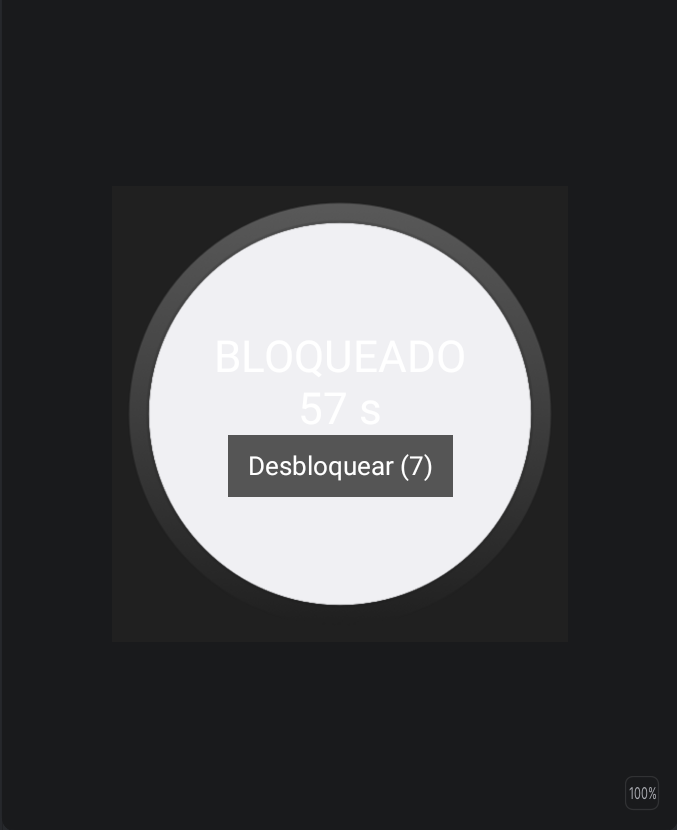
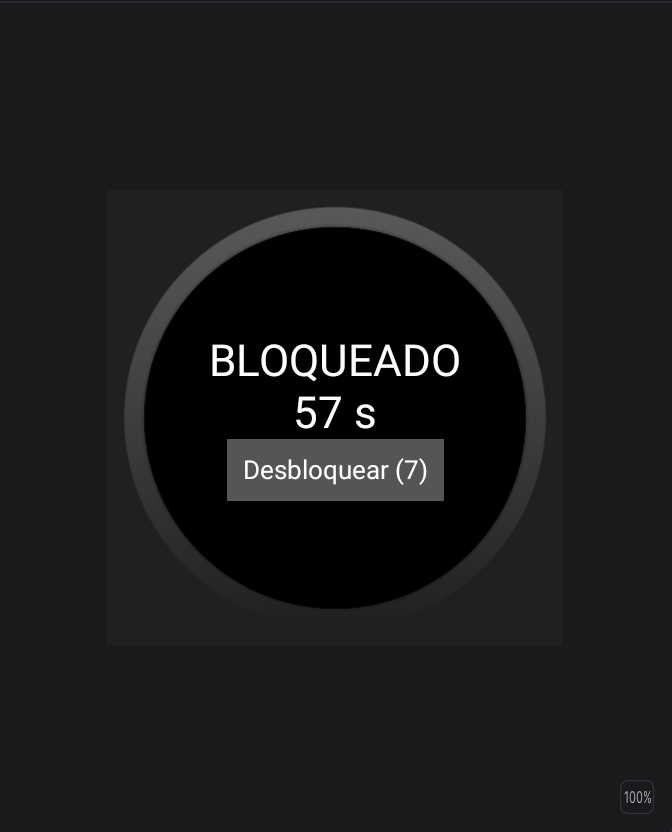
Mejora contraste del reloj y recaptura imágenes

Changed region(s): [[0.1875, 0.241, 0.8125, 0.753], [0.9375, 0.9337, 0.9688, 0.9639]]

diff --git a/wear/src/main/java/com/example/disciplinatrader/presentation/MainActivity.kt b/wear/src/main/java/com/example/disciplinatrader/presentation/MainActivity.kt
@@ -76,7 +76,7 @@ class MainActivity : ComponentActivity() {
             }
 
             Column(
-                modifier = Modifier.fillMaxSize().padding(26.dp),
+                modifier = Modifier.fillMaxSize().background(Color.Black).padding(26.dp),
                 verticalArrangement = Arrangement.Center,
                 horizontalAlignment = Alignment.CenterHorizontally
             ) {
@@ -104,11 +104,11 @@ class MainActivity : ComponentActivity() {
                             modifier = Modifier.padding(top = 10.dp),
                             horizontalArrangement = Arrangement.spacedBy(8.dp)
                         ) {
-                            Boton("Confirmar", Color(0xFF2E7D32), texto) {
+                            Boton("Confirmar", Color(0xFF2E7D32), chico) {
                                 canal.enviar(Mensaje(TipoMensaje.CONFIRMAR))
                                 pantalla = Pantalla.ESPERA
                             }
-                            Boton("Cancelar", Color(0xFFC62828), texto) {
+                            Boton("Cancelar", Color(0xFFC62828), chico) {
                                 canal.enviar(Mensaje(TipoMensaje.CANCELAR))
                                 pantalla = Pantalla.ESPERA
                             }
@@ -200,8 +200,8 @@ private fun Boton(
         modifier = Modifier
             .background(if (habilitado) color else Color(0xFF555555))
             .clickable(enabled = habilitado) { alTocar() }
-            .padding(horizontal = 10.dp, vertical = 8.dp)
+            .padding(horizontal = 8.dp, vertical = 8.dp)
     ) {
-        BasicText(texto, style = estilo)
+        BasicText(texto, style = estilo, softWrap = false, maxLines = 1)
     }
 }
